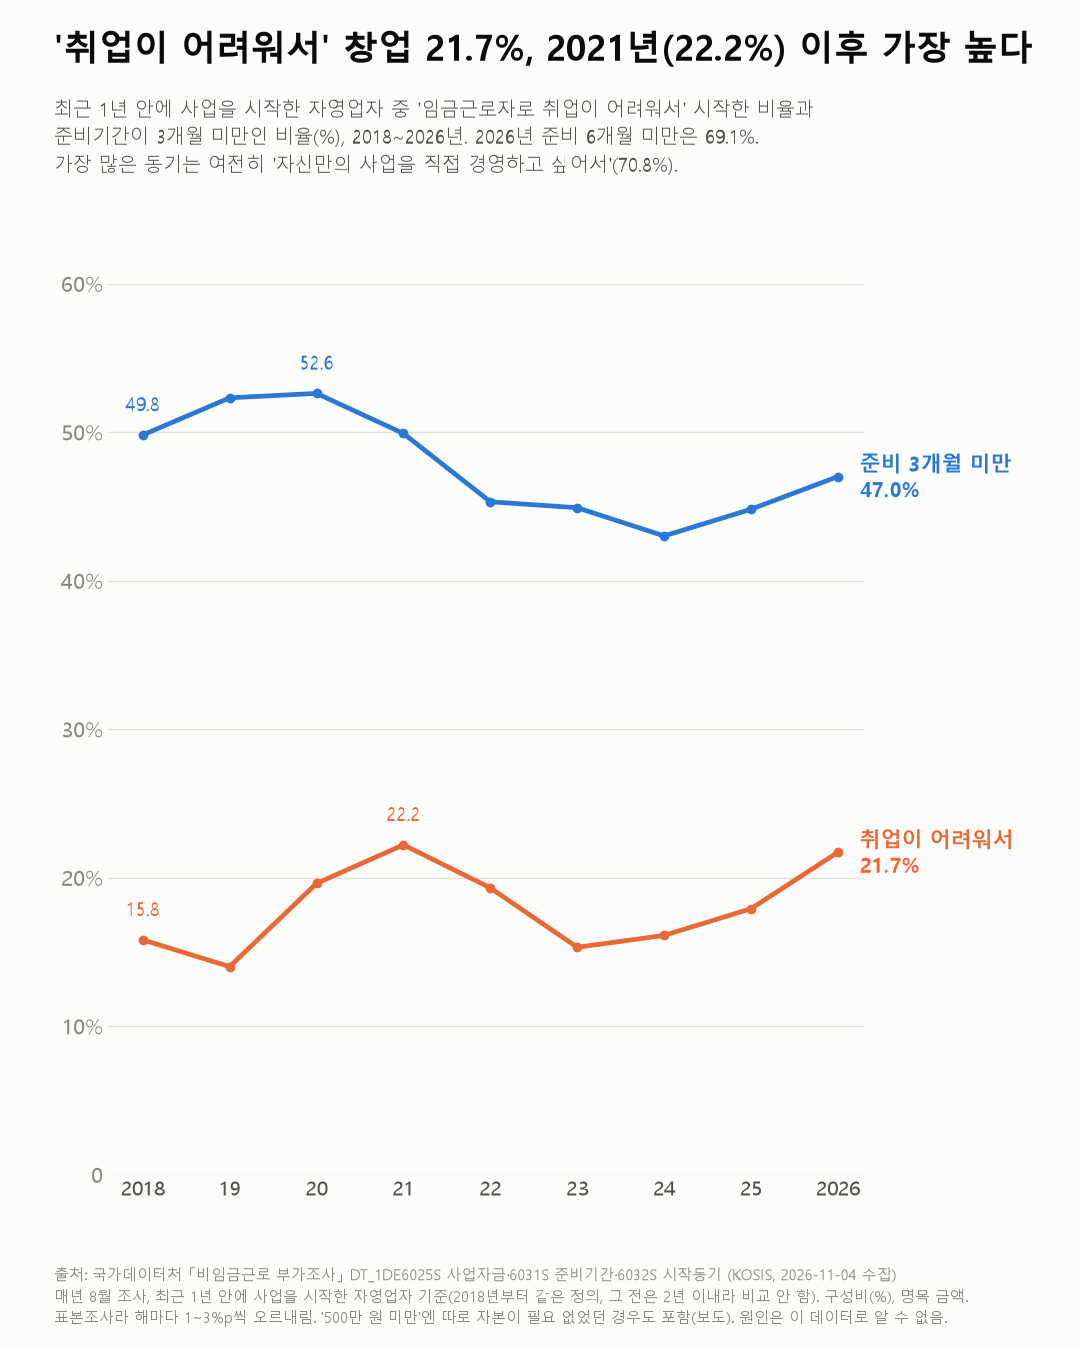
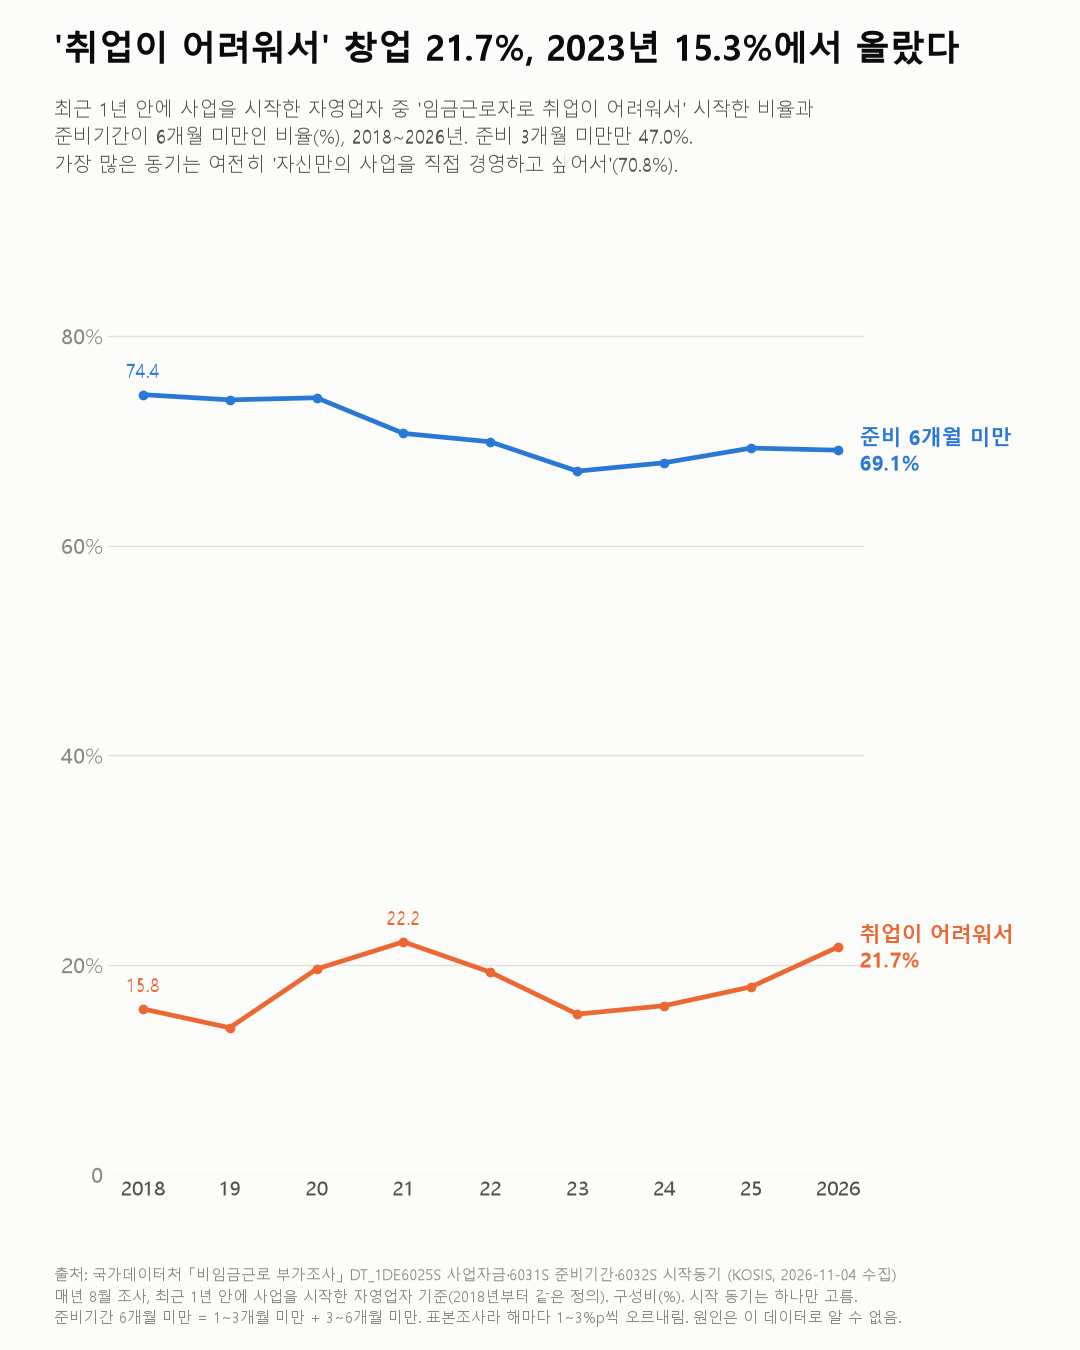
사이트 갱신

diff --git a/2026-11_new-selfemployed/index.html b/2026-11_new-selfemployed/index.html
@@ -67,7 +67,7 @@
 </section><section class="sec"><h2>인사이트</h2>
 <p><strong>1. 2026년 새로 사업을 시작한 자영업자의 35.2%가 500만 원 미만으로 시작했다.</strong> 5천만 원 미만까지 합치면 71.8%. 2024년엔 500만 원 미만이 39.8%로 더 높았다.</p>
 <p><strong>2. 10명 중 7명(69.1%)은 6개월도 준비하지 않고 시작했다.</strong> 3개월 미만만 47.0%.</p>
-<p><strong>3. '임금근로자로 취업이 어려워서' 시작한 비율은 21.7%로 2021년(22.2%) 이후 가장 높다.</strong> 2023년 15.3%에서 3년 연속 올랐다.</p>
+<p><strong>3. '임금근로자로 취업이 어려워서' 시작한 비율은 21.7%로, 2023년 15.3%에서 3년 연속 올랐다(+6.4%p).</strong> 2021년(22.2%)과는 비슷한 수준이다.</p>
 <p><strong>4. 그래도 가장 많은 동기는 '자신만의 사업을 직접 경영하고 싶어서'(70.8%)다.</strong></p>
 <p><a class="chart-link" href="chart_new_selfemployed_motive.png" title="원본 크기로 보기"><img alt="시작 동기·준비기간" src="chart_new_selfemployed_motive.png" /></a></p>
 </section><section class="sec sec-limits"><h2>한계</h2><p class="sec-note">이 데이터로 말할 수 없는 것</p>
